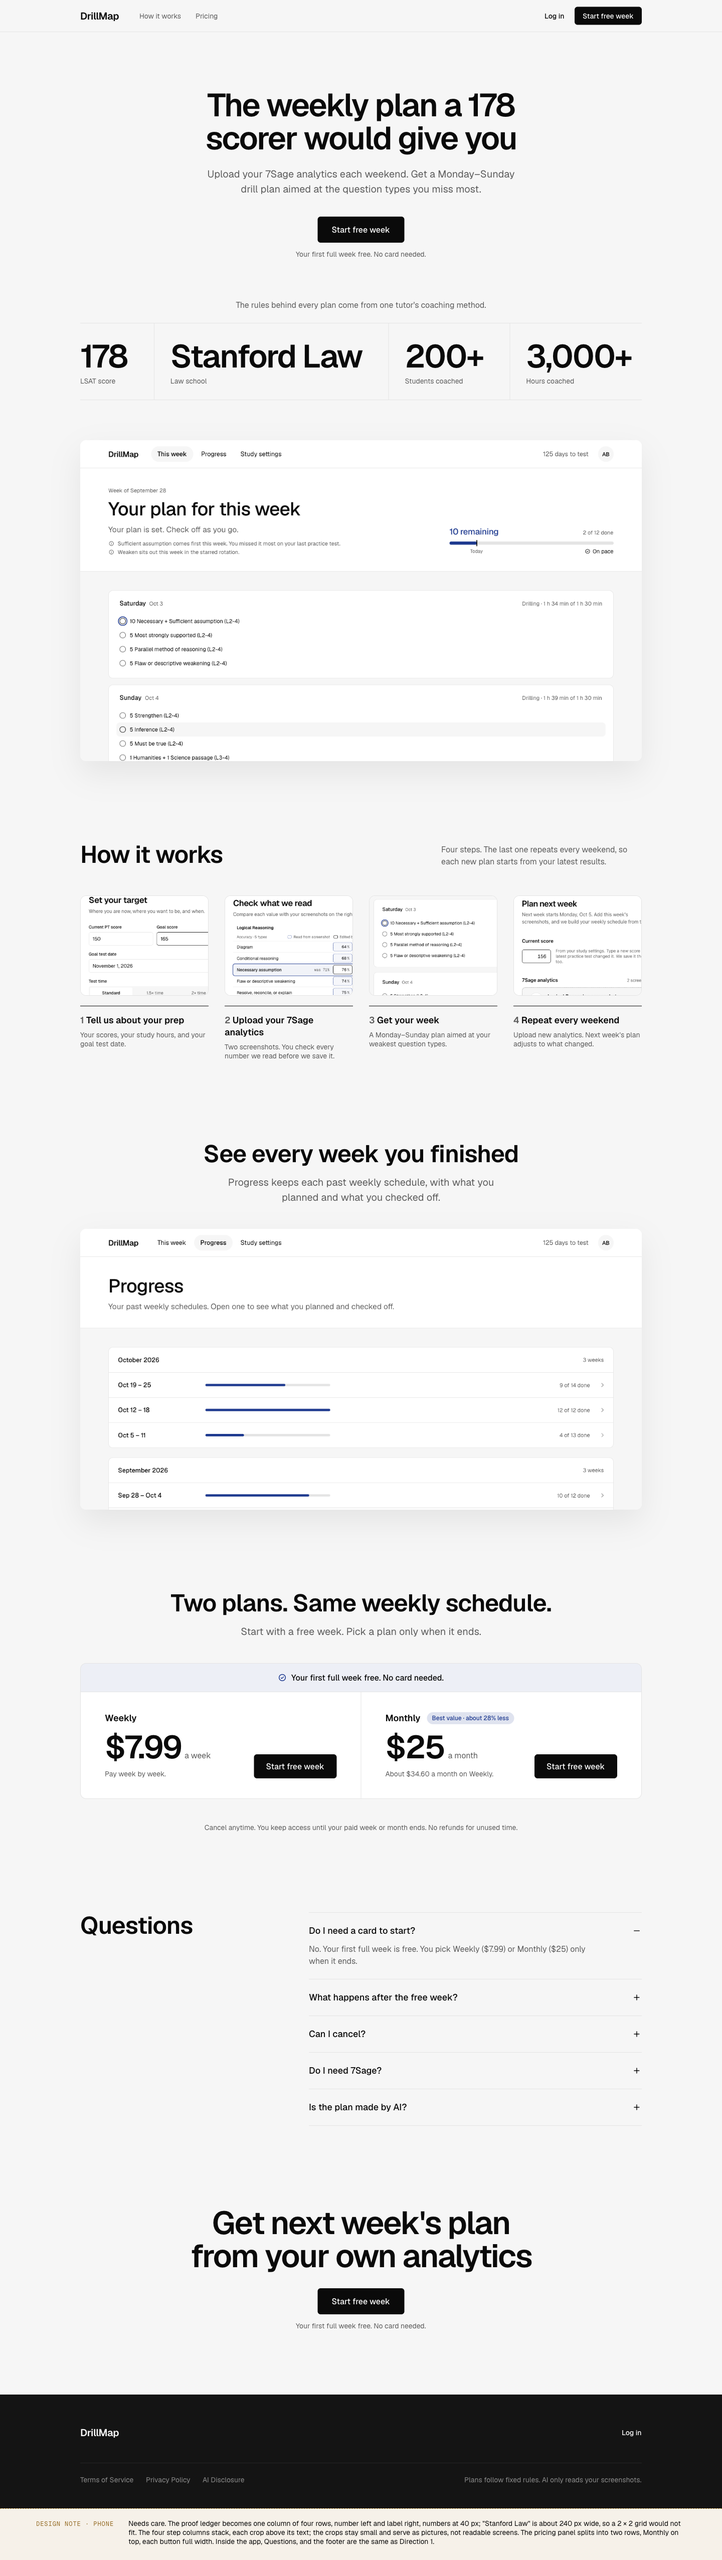
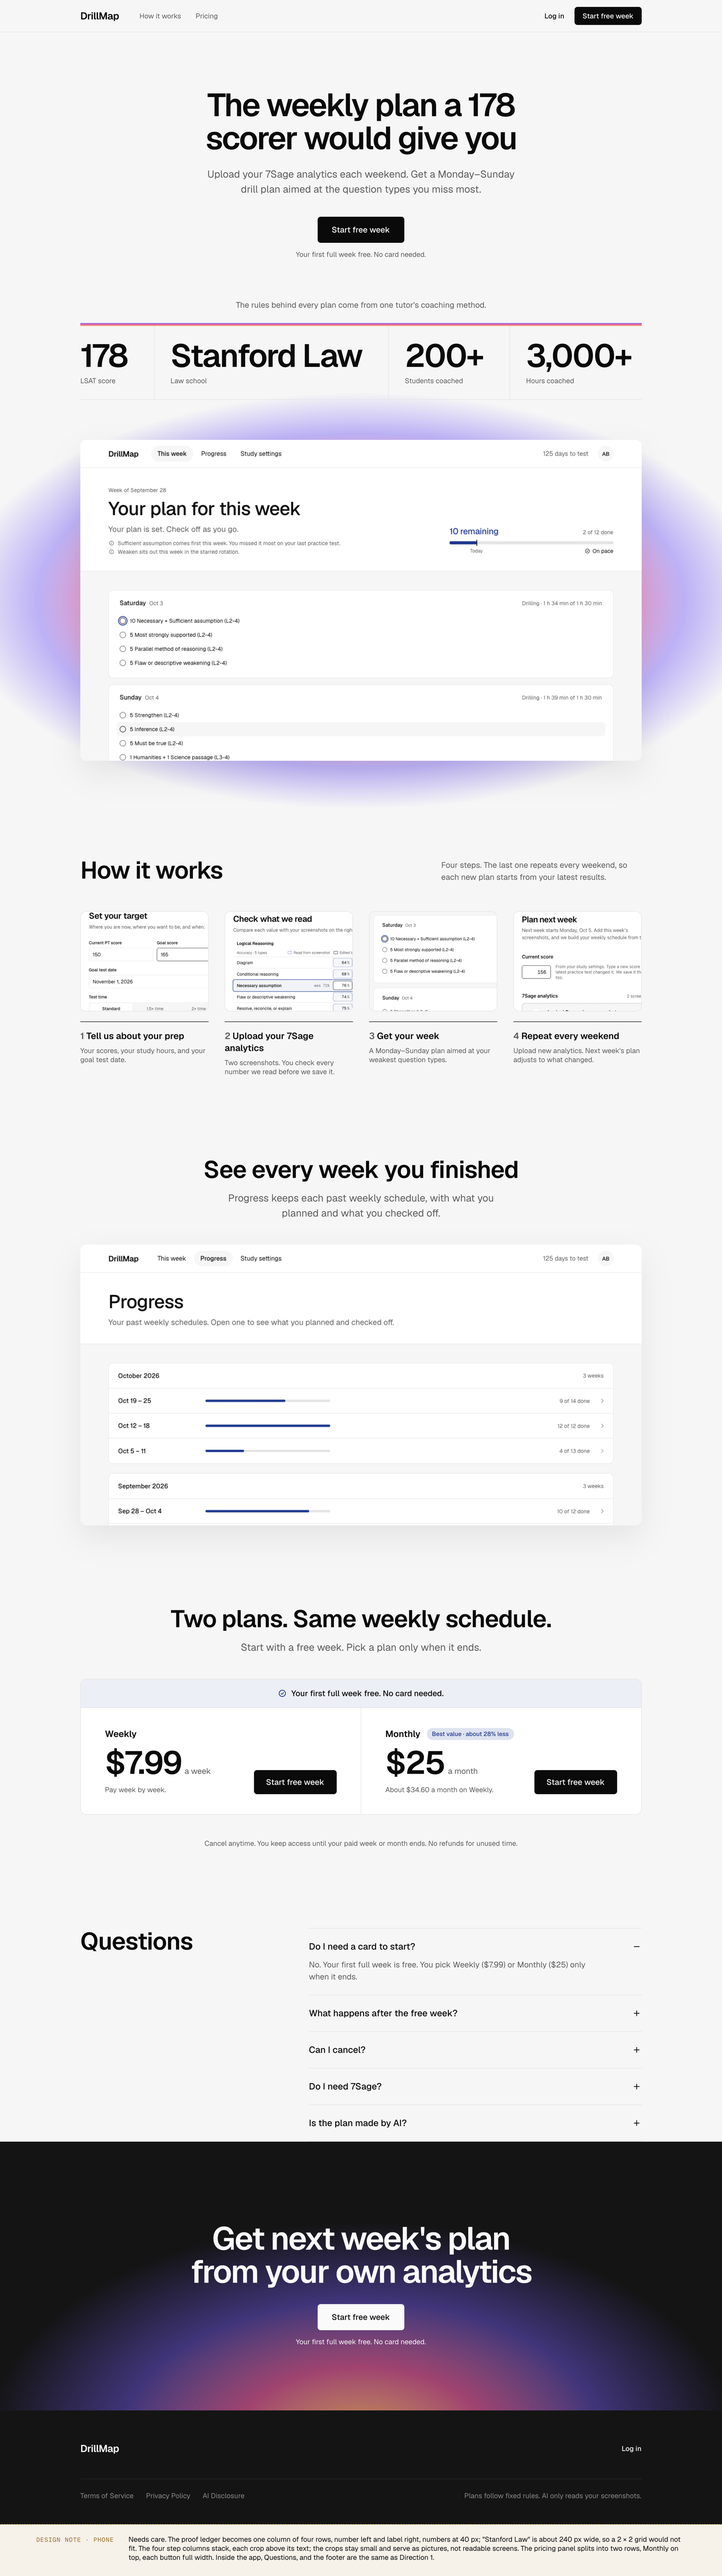
docs(design): add spectrum color to the landing page directions (#519)

diff --git a/docs/design/research/landing-page/brief.md b/docs/design/research/landing-page/brief.md
@@ -86,6 +86,11 @@ Built 2026-11-02 in Paper, "DrillMap · Design" → Explorations, under the "Lan
 
 Shared by all three: top bar, Questions (title left, list right, first item open), closing band, dark footer.
 
+Color (owner asked for color, 2026-11-02): all three heroes put the Log in page's spectrum glow (violet, pink, amber) behind the This week screen, so the landing page and Log in look like one product. Buttons stay Ink; Accent blue stays for links and progress. Each direction then uses the spectrum once more in its own way:
+- D1: a "sunrise" glow rises from the bottom of the closing band.
+- D2: a violet-to-amber rule tops the proof ledger, and the closing band turns Graphite with the glow rising behind a Chalk button.
+- D3: each How it works screen sits on its own color panel: violet, pink, amber, then the full spectrum for "Repeat every weekend".
+
 Critique (impeccable, 2026-11-02): design review scores D1 22/32, D2 20/32, D3 22/32. Fixed before showing: hero screens opened on "Not scheduled" and "Rest day" cards; proof numbers too small in D1 and D3; step numbers below contrast; wrong phone-fit claims in D2 and D3. Open for the chosen direction:
 - The tutor is never named, so the proof has no person behind it.
 - Sample dates in the screens (September–October) do not match each other or today.
